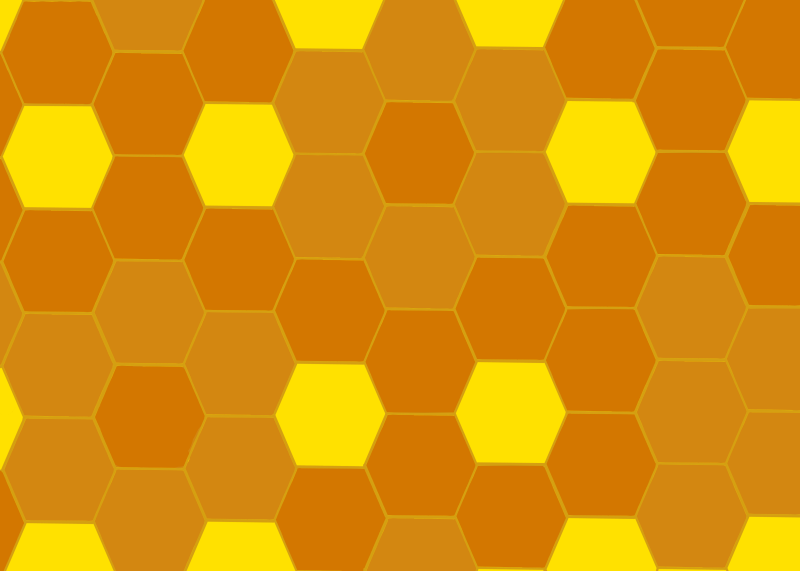
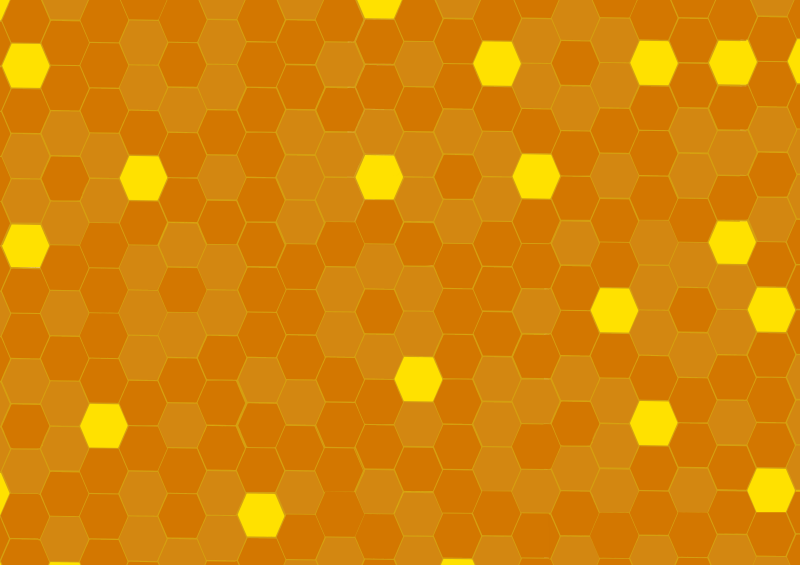
Figured out the background!

diff --git a/homePage.html b/homePage.html
@@ -2,20 +2,19 @@
 <html lang="en">
 <head>
     <meta charset="UTF-8">
+    <meta http-equiv="X-UA-Compatible" content="IE=edge">
     <meta name="viewport" content="width=device-width, initial-scale=1.0">
-    <title>HoneyCombmics</title>
+    <title>HoneyCombics Website</title>
     <link rel="stylesheet" href="style.css">
-</head> 
+    <style>
+        body{
+            background-image:url('Honeycomb.png');
+            background-repeat: no-repeat;
+            background-size: 100%;
+        }
+    </style>
+</head>
 <body>
-    <header>
-        <div class="main">
-            <ul>
-                <li><a href="a">Home</a></li>
-                <li><a href="a">Genre</a></li>
-                <li><a href="a">Fanart</a></li>
-            </ul>
-        </div>
-    </header>
     
 </body>
 </html>

diff --git a/style.css b/style.css
@@ -1,13 +1,13 @@
 *{
     margin: 0px;
     padding: 0px;
-    font-family: Century;
 }
 
-.header{
-    background-image: linear-gradient(rgb(255, 240, 108),rgb(255, 174, 0),rgba(255, 240, 108)), url(../Honeycomb.png);
-    height: 100vh;
-    background-size: cover;
+.style{
+    background-image: linear-gradient(rgb(255, 240, 108),rgb(255, 174, 0),rgba(255, 240, 108)), url(../Honeycomb.jpg);
     background-position: center;
-    min-height: 100px;
+    background-size: cover;
+    height: 500vh;
+    width: 800vh;
+    font-family: sans-serif; 
 }
